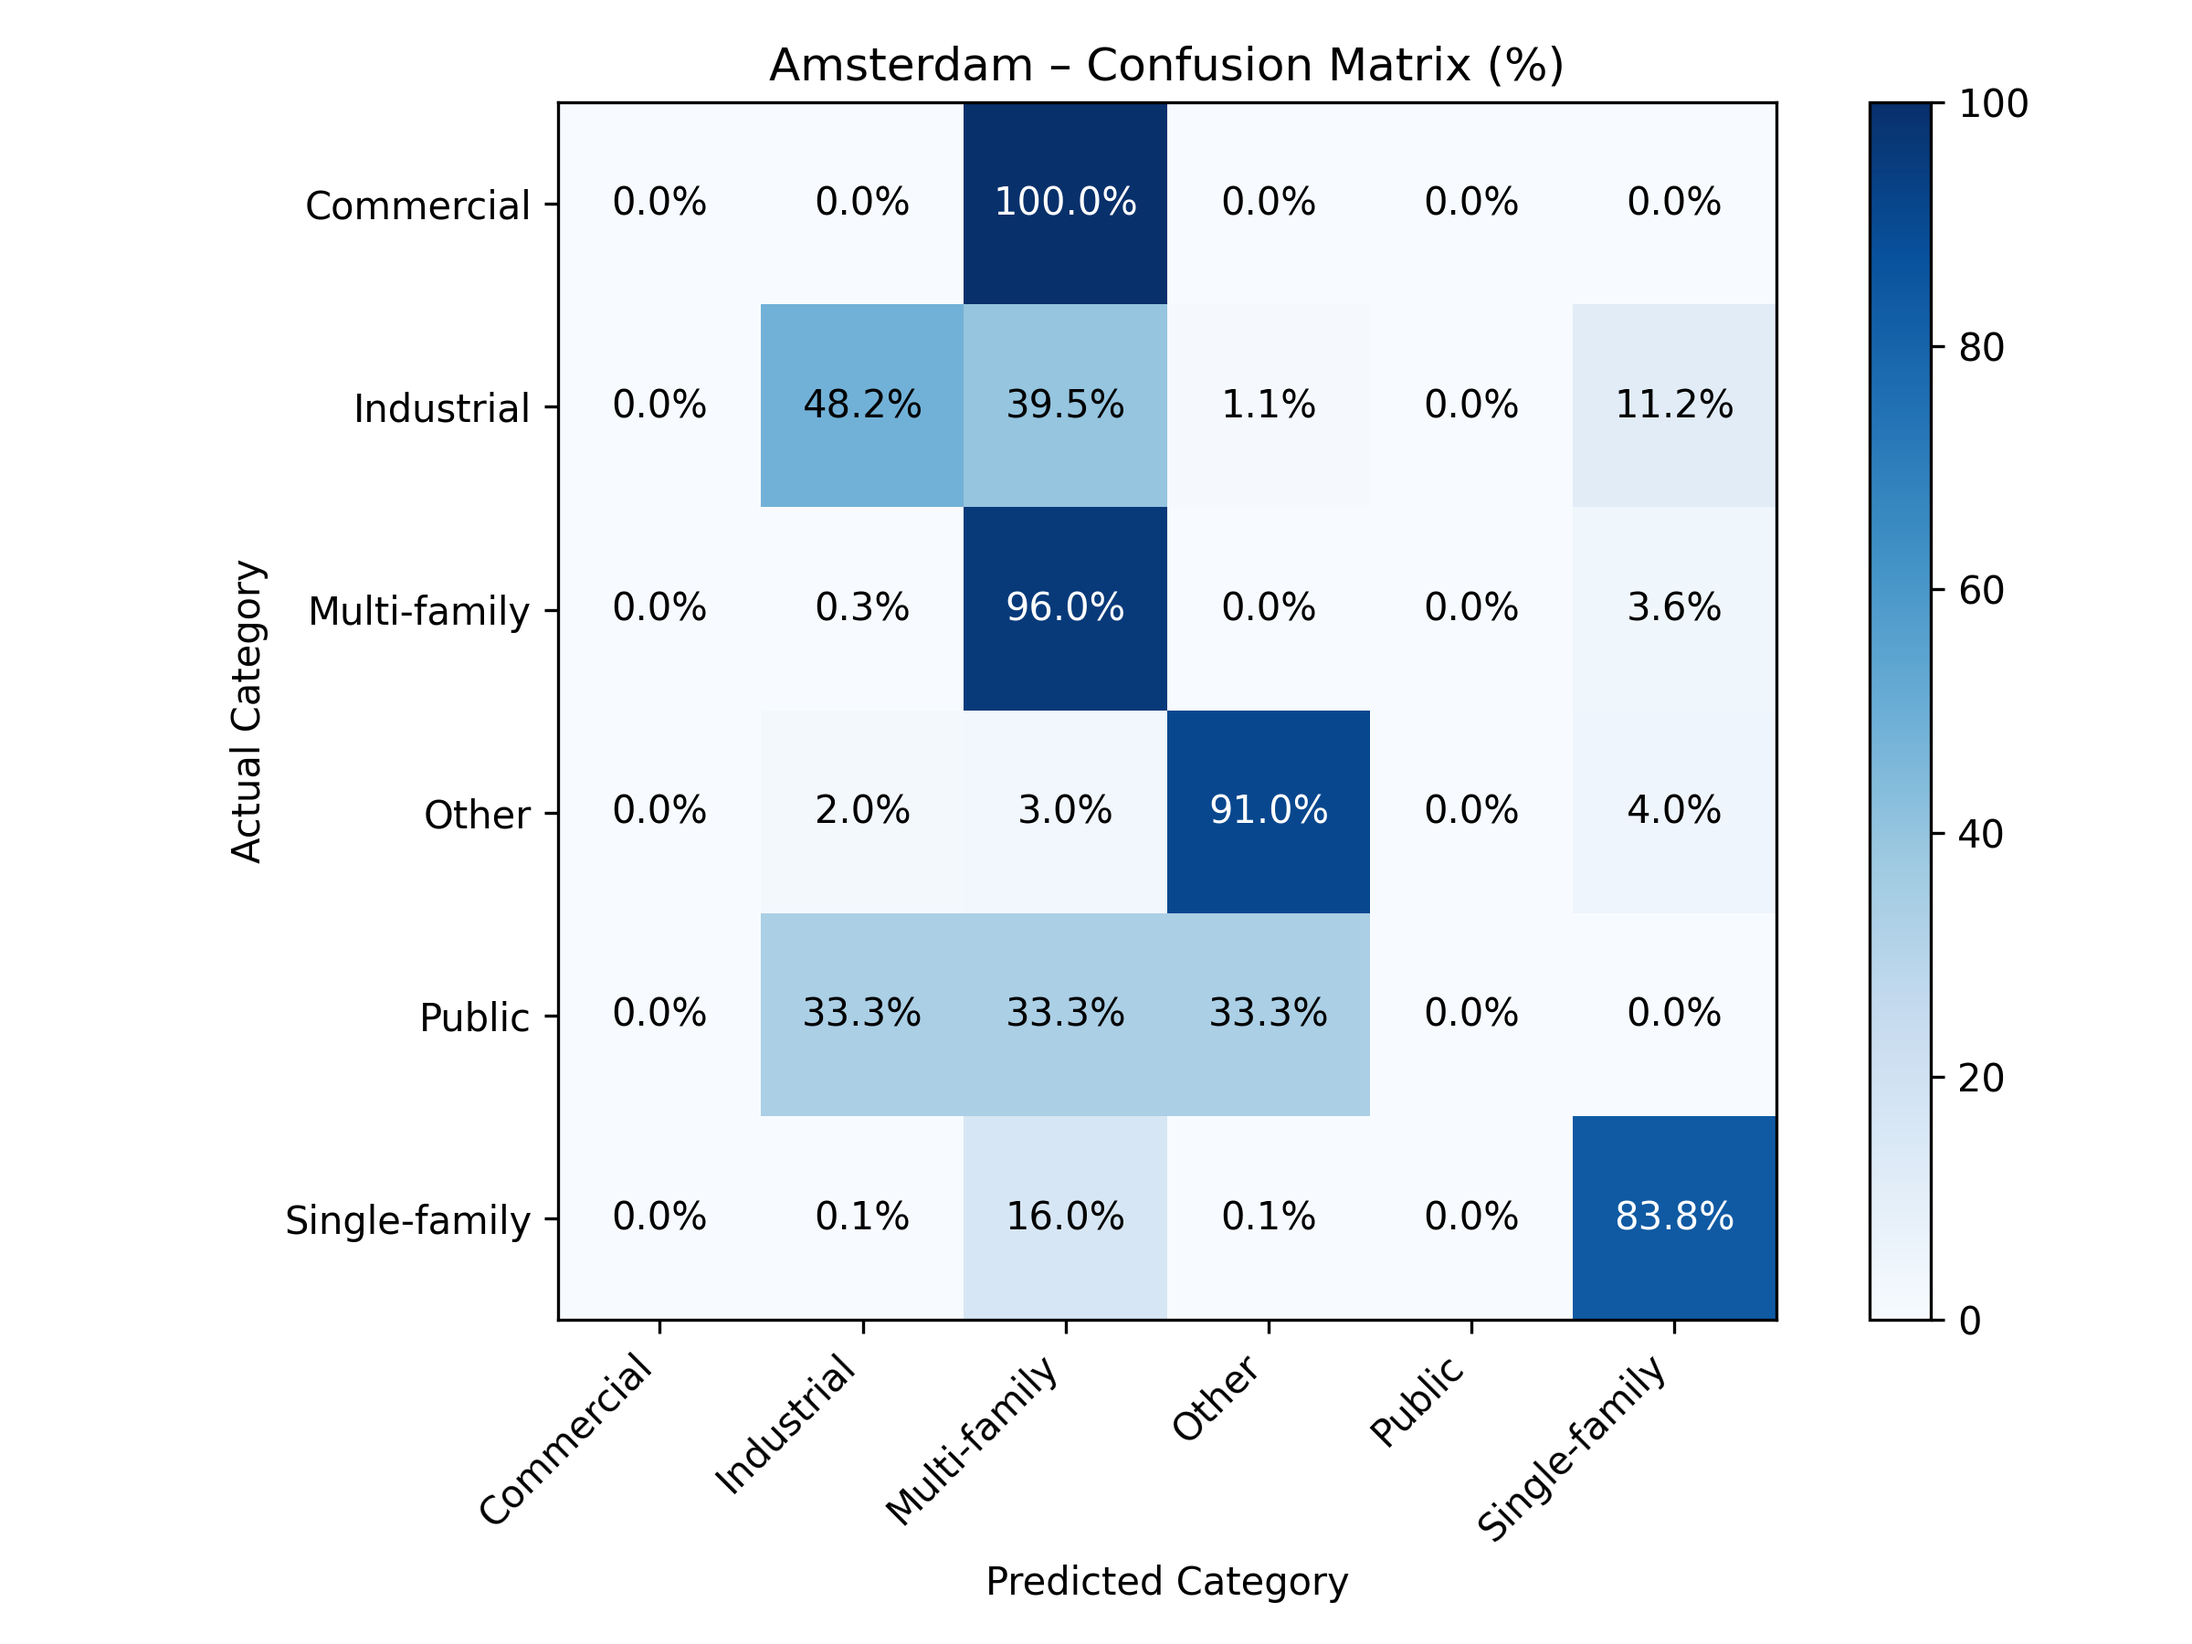
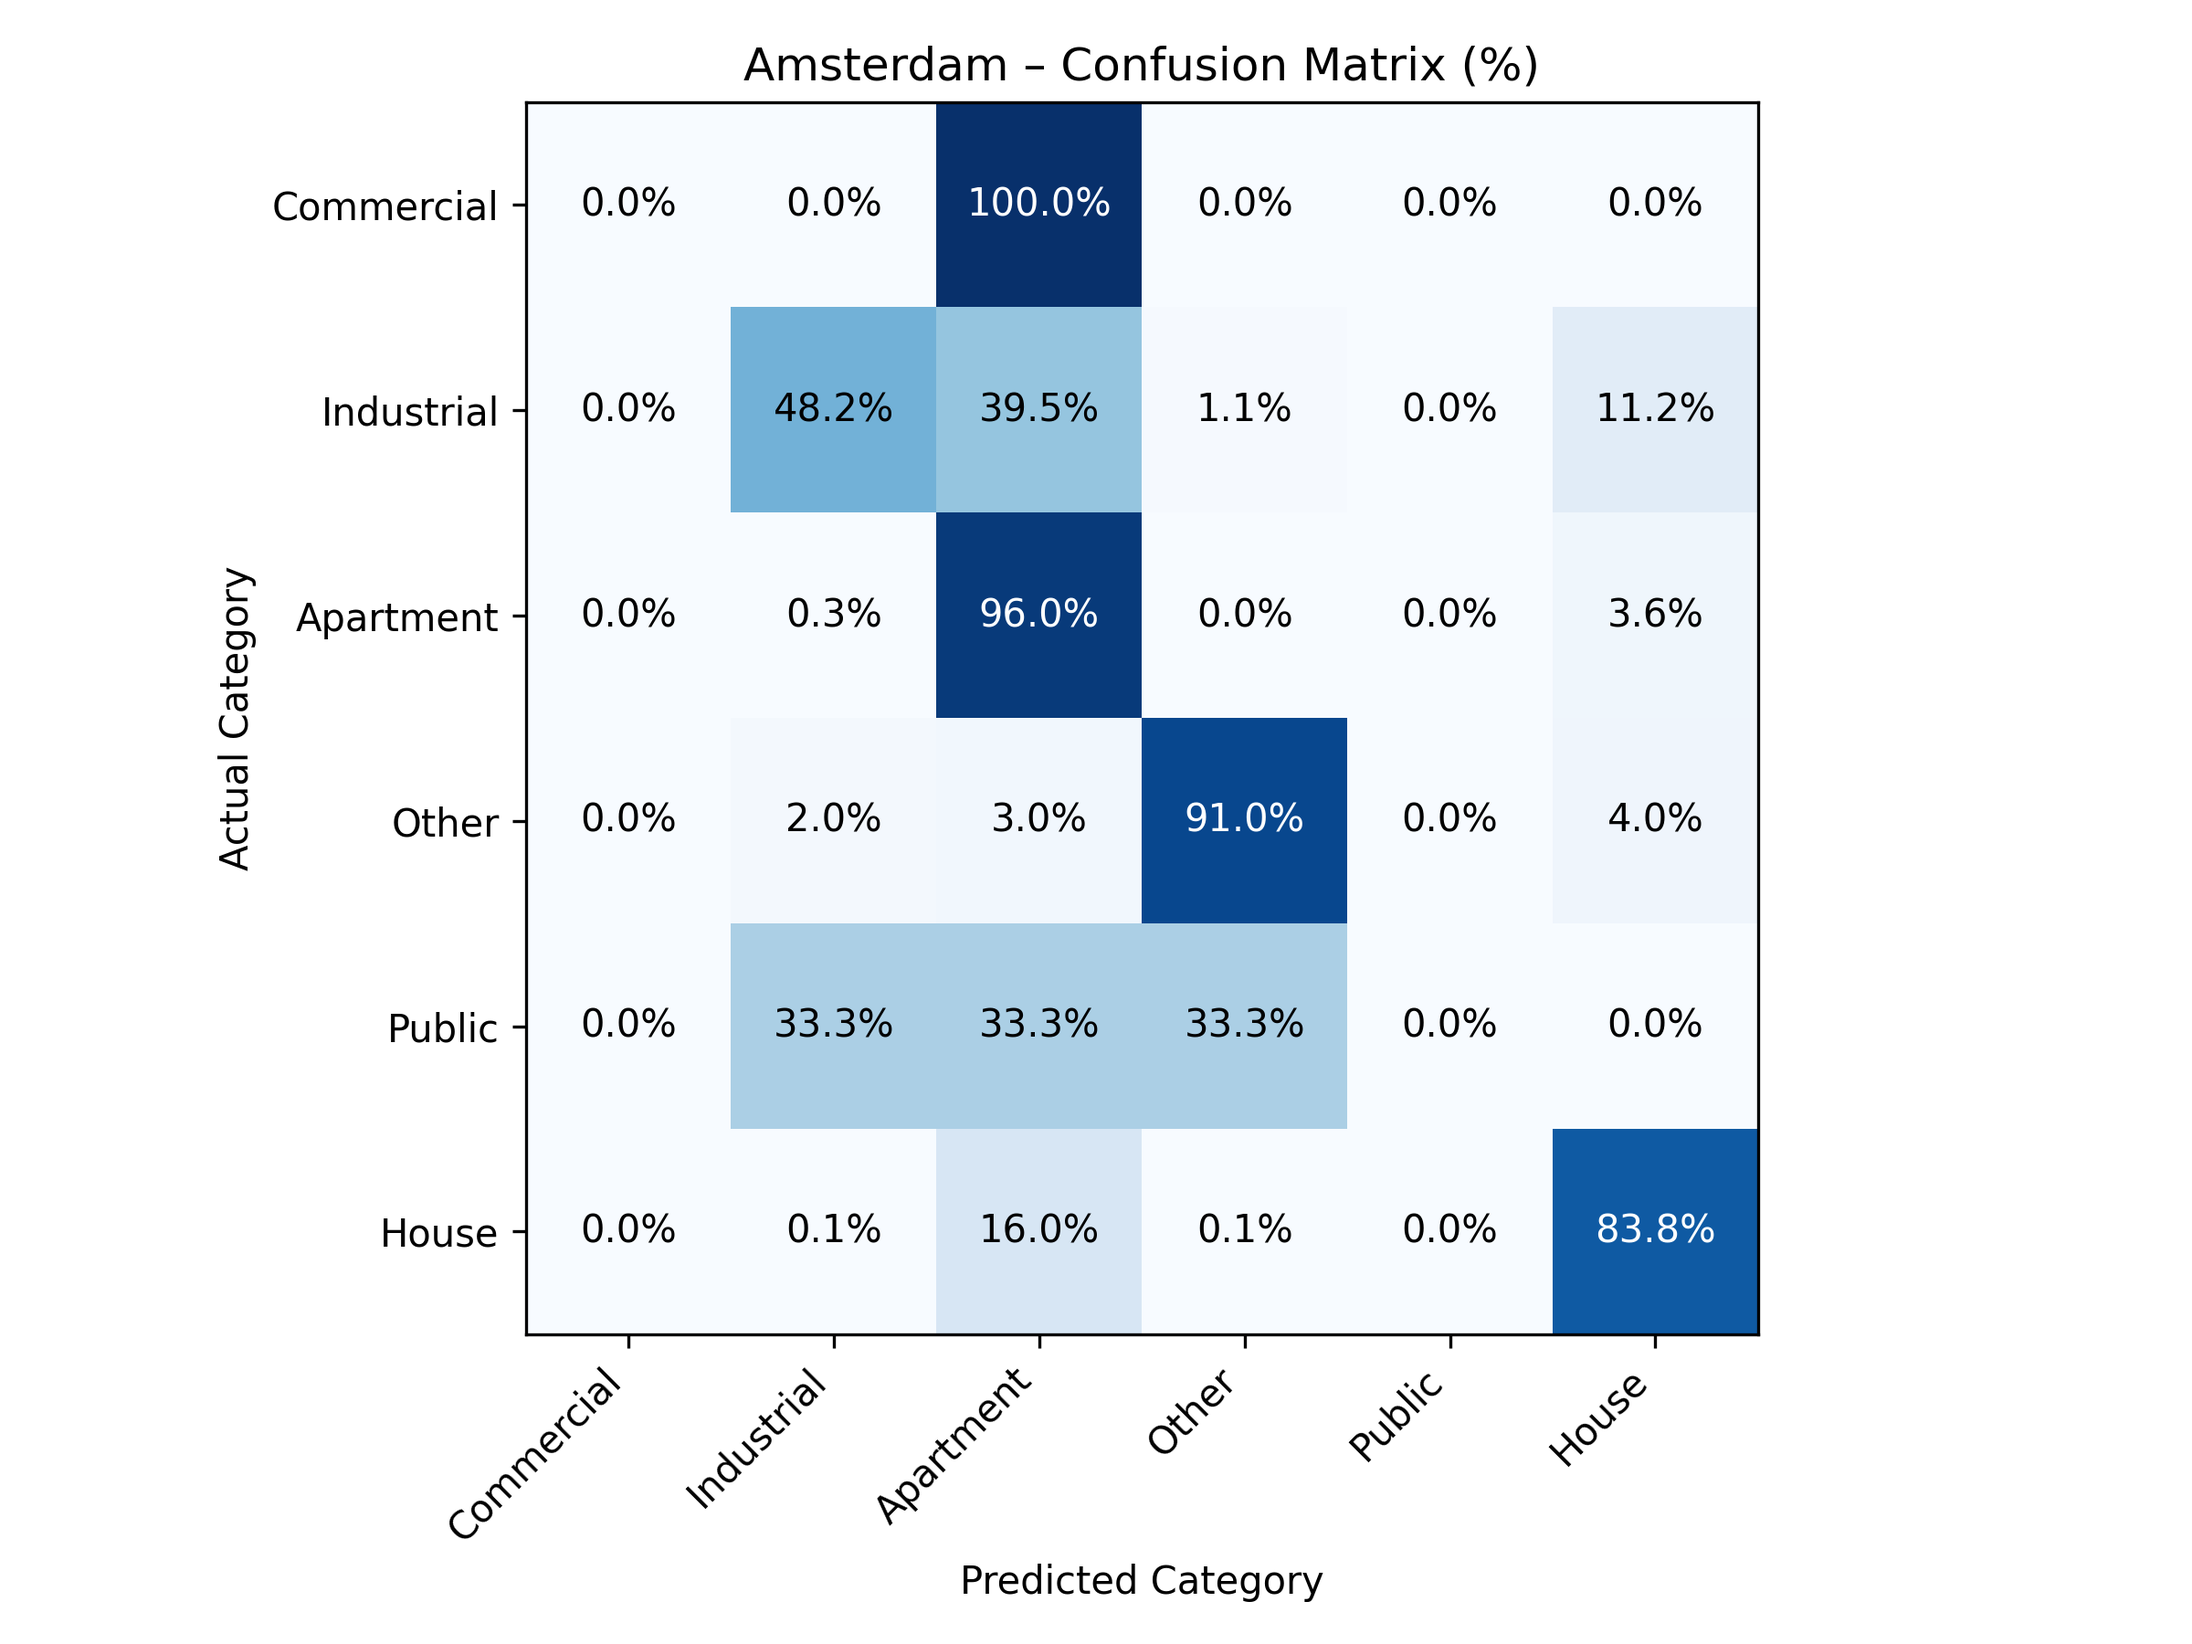
Refactor README.md for improved clarity; update project description and function documentation. Modify display names and labels in data_visualization.py for better readability; adjust color mappings in visualizations.

diff --git a/data_visualization.py b/data_visualization.py
@@ -10,6 +10,7 @@ from sklearn.ensemble import RandomForestClassifier
 from sklearn.metrics import accuracy_score, confusion_matrix
 
 from data_preprocessing import load_and_preprocess, FEATURES
+from matplotlib.colors import Normalize
 
 # suppress warnings
 warnings.filterwarnings("ignore", category=UndefinedMetricWarning)
@@ -17,8 +18,8 @@ warnings.filterwarnings("ignore", category=RuntimeWarning)
 
 # 0) Reader-friendly display names
 category_display = {
-    "multi-family": "Multi-family",
-    "single-family": "Single-family",
+    "multi-family": "Apartment",
+    "single-family": "House",
     "commercial": "Commercial",
     "industrial": "Industrial",
     "public": "Public",
@@ -46,7 +47,7 @@ color_map = {
     "other": "#666666",
 }
 light_gray = "#b1b1b1"
-gray_patch = Patch(color=light_gray, label="Train set")
+gray_patch = Patch(color=light_gray, label="Training Set")
 
 output_dir = Path("images")
 output_dir.mkdir(exist_ok=True)
@@ -157,7 +158,6 @@ for city, sub in df.groupby("city"):
     ax2.set_xlabel("Predicted Category")
     ax2.set_ylabel("Actual Category")
     ax2.set_title(f"{city} – Confusion Matrix (%)")
-    fig2.colorbar(im, ax=ax2)
     fig2.tight_layout()
     fig2.savefig(output_dir / f"{city}_confusion_matrix.png", dpi=300)
     plt.close(fig2)
@@ -168,7 +168,7 @@ for city, sub in df.groupby("city"):
     ax3.barh(
         [feature_display[f] for f in reversed(FEATURES)],
         list(reversed(importances)),
-        color="#4788b1",
+        color="#6aadd5",
         height=0.4,
     )
     ax3.set_xlabel("Relative Importance")
@@ -221,7 +221,6 @@ for i in range(len(le_all.classes_)):
 ax4.set_xlabel("Predicted Category")
 ax4.set_ylabel("Actual Category")
 ax4.set_title(f"Overall Confusion Matrix (%) (Acc: {acc_all:.2f})")
-fig4.colorbar(im4, ax=ax4)
 fig4.tight_layout()
 fig4.savefig(output_dir / "overall_confusion_matrix.png", dpi=300)
 plt.close(fig4)
@@ -232,7 +231,7 @@ fig5, ax5 = plt.subplots(figsize=(8, 6))
 ax5.barh(
     [feature_display[f] for f in reversed(FEATURES)],
     list(reversed(feat_imp_all)),
-    color="#4788b1",
+    color="#6aadd5",
     height=0.4,
 )
 ax5.set_xlabel("Relative Importance")

diff --git a/README.md b/README.md
@@ -1,142 +1,79 @@
-# Land Use Classification Pipeline
+# Land Use Classification of Urban Areas
 
-This project is a pipeline for loading, preprocessing, visualizing, and classifying land use data using a Random Forest model.
+This project provides a pipeline for loading, preprocessing, visualizing, and classifying land use data using a Random Forest model. It includes functions for handling spatial data, creating visualizations, and training machine learning models.
 
-## Project Structure
+## Functions
 
-```plaintext
-.gitignore
-data/
-    AL001L1_TIRANA_UA2018_v013.gpkg
-    planet_13.046,52.361_13.731,52.672-shp/
-        CHECKSUM.txt
-        logfile.txt
-        README.html
-        README.txt
-        shape/
-            buildings.cpg
-            buildings.dbf
-            buildings.prj
-            buildings.shp
-            buildings.shx
-            landuse.cpg
-            landuse.dbf
-            landuse.prj
-            landuse.shp
-            landuse.shx
-            natural.cpg
-            ...
-    planet_7.66971,45.05372_7.71254,45.07629-shp/
-        CHECKSUM.txt
-        logfile.txt
-        README.html
-        README.txt
-        shape/
-            ...
-gpkg_reader.py
-pipeline.py
-README.md
-```
+### load_data(file_path)
 
-## Requirements
+Loads spatial data from a given file path into a GeoDataFrame.
 
-- Python 3.x
-- geopandas
-- matplotlib
-- scikit-learn
+- **Parameters**:
+  - `file_path` (str): Path to the spatial data file (e.g., shapefile).
+- **Returns**:
+  - `GeoDataFrame`: Loaded spatial data.
 
-You can install the required packages using pip:
+### visualize_data(data, output_path)
 
-```sh
-pip install geopandas matplotlib scikit-learn
-```
+Creates a visualization of the GeoDataFrame and saves it to a specified file.
 
-## Usage
+- **Parameters**:
+  - `data` (GeoDataFrame): Spatial data to visualize.
+  - `output_path` (str): Path to save the visualization image.
 
-### Load Data
+### preprocess_data(data)
 
-The
+Preprocesses spatial data for machine learning by extracting features and target variables.
 
-load_data
+- **Parameters**:
+  - `data` (GeoDataFrame): Spatial data to preprocess.
+- **Returns**:
+  - `features` (DataFrame): Extracted features for the model.
+  - `target` (Series): Target variable for classification.
 
-function loads spatial data into a GeoDataFrame.
+### train_model(features, target)
 
-```python
-from pipeline import load_data
+Trains a Random Forest model to classify land use based on the provided features and target.
 
-file_path = "data/planet_7.66971,45.05372_7.71254,45.07629-shp/shape/buildings.shp"
-data = load_data(file_path)
-print(data.head())
-```
+- **Parameters**:
+  - `features` (DataFrame): Input features for training.
+  - `target` (Series): Target variable for training.
+- **Returns**:
+  - `model` (RandomForestClassifier): Trained Random Forest model.
+  - `X_test` (DataFrame): Test set features.
+  - `y_test` (Series): Test set target values.
+  - `predictions` (Series): Model predictions on the test set.
 
-### Visualize Data
+### visualize_predictions(test_geo_data, predictions, output_path)
 
-The
+Visualizes the model predictions alongside the ground truth on the GeoDataFrame and saves it to a file.
 
-visualize_data
+- **Parameters**:
+  - `test_geo_data` (GeoDataFrame): GeoDataFrame containing test data.
+  - `predictions` (Series): Model predictions.
+  - `output_path` (str): Path to save the visualization image.
 
-function creates a simple visualization of the GeoDataFrame and saves it to a file.
+## Main Script
 
-```python
-from pipeline import visualize_data
+The `pipeline.py` script runs the entire pipeline, including data loading, preprocessing, visualization, model training, and prediction visualization.
 
-visualize_data(data, output_path="land_use_map.png")
-```
+## Results
 
-### Preprocess Data
+The results of the model predictions are saved as a GeoDataFrame, and the visualizations are saved as images in the specified output directory.
 
-The
+![Land Use Classification - Amsterdam](images/Amsterdam_comparison.png)
 
-preprocess_data
+![Land Use Classification - Barcelona](images/Barcelona_comparison.png)
 
-function preprocesses spatial data for machine learning.
+![Land Use Classification - Berlin](images/Berlin_comparison.png)
 
-```python
-from pipeline import preprocess_data
+![Land Use Classification - London](images/London_comparison.png)
 
-features, target = preprocess_data(data)
-```
+![Land Use Classification - Milano](images/Milano_comparison.png)
 
-### Train Model
+![Land Use Classification - Moscow](images/Moscow_comparison.png)
 
-The
-
-train_model
-
-function trains a Random Forest model to predict land use.
-
-```python
-from pipeline import train_model
-
-model, X_test, y_test, predictions = train_model(features, target)
-```
-
-### Visualize Predictions
-
-The
-
-visualize_predictions
-
-function visualizes the model predictions alongside the ground truth on the GeoDataFrame and saves it to a file.
-
-```python
-from pipeline import visualize_predictions
-
-test_geo_data = data.iloc[X_test.index].copy()
-visualize_predictions(test_geo_data, predictions, output_path="predictions_map.png")
-```
-
-### Main Script
-
-The main script in
-
-pipeline.py
-
-runs the entire pipeline.
-
-```sh
-python pipeline.py
-```
+![Land Use Classification - Paris](images/Paris_comparison.png)
 
 ## License
 
